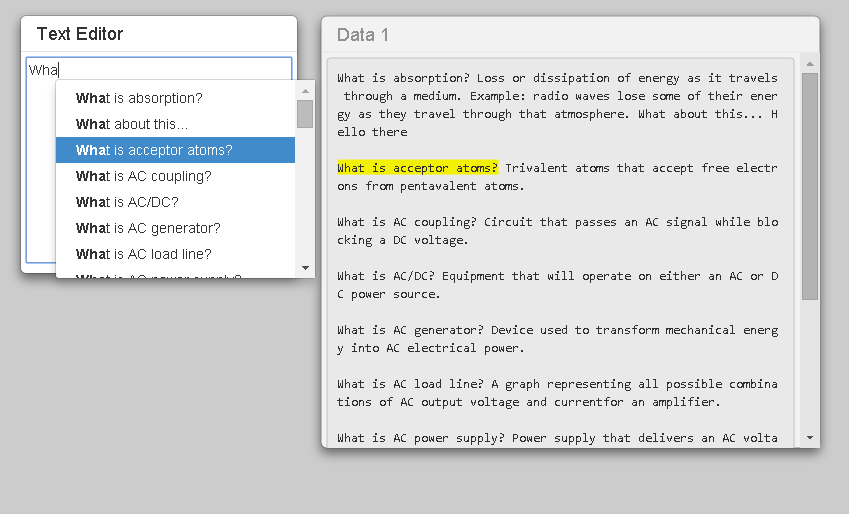
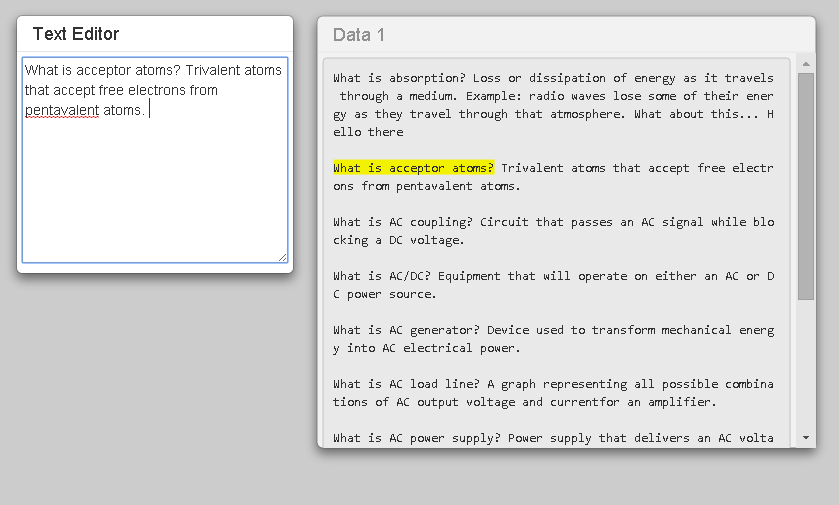
Included screen shots onto instructions page

diff --git a/instructions.html b/instructions.html
@@ -46,16 +46,15 @@
 
                         <p>Whenever <i>AutoComPaste</i> is active, typing three characters or more in the Text Input Box will bring up a dropdown list of possible sentences that are extracted from the contents of the open windows.</p>
                         
-                        <!-- Insert img here -->
+                        <img src="img/acp-instructions-1.PNG" style="height: 350px; width: auto;"> <br>
 
-                        <p>When this happens, pressing the <b>&#8679;/&#8681;</b> buttons will scroll through the list of suggestions. Press <b>Enter</b> to select a suggestion to be pasted into the Text Input Box.</p>
-
-                        <!-- Insert img here -->
+                        <p>When this happens, pressing the <b>&#8679;/&#8681;</b> buttons will scroll through the list of suggestions. Press <b>Enter</b> to select a suggestion to be pasted into the Text Input Box.</p> <br>
 
                         <p>After selecting a sentence, pressing the <b>&#8678;/&#8680;</b> buttons will allow you to delete or append the sentences before or after the selected sentence.</p>
 
-                        <!-- Insert img here -->
+                        <img src="img/acp-instructions-2.PNG" style="height: 350px; width: auto;"> <br>
 
+                        <br>
                         <p>If you wish to use the arrow keys to navigate your cursor through your text, press the <b>Esc</b> button to exit the <i>AutoComPaste</i> mode.</p>
 
                         <br>
@@ -66,17 +65,22 @@
 
                         <p>You will be given a series of tasks requiring you to try out one of the 2 different techniques of copying and pasting highlighted text onto a given text box at one time.</p>
 
-                        <p><u>Step 1</u>: Verify from the left panel which <b>method</b> (<i>AutoComPaste</i> or <i>Ctrl-C + Ctrl-V</i>) you are expected to use for that current task. </p> 
+                        <p><u><b>STEP 1</b></u>: Verify from the left panel which <b>method</b> (<i>AutoComPaste</i> or <i>Ctrl-C + Ctrl-V</i>) you are expected to use for the current task. </p> 
 
-                        <p><u>Step 2</u>: Locate the <b>highlighted section(s)</b> of text from the right panel.</p>
+                        <img src="img/task-instructions-1.PNG" style="height: 350px; width: auto;"> <br> <br>
+
+                        <p><u><b>STEP 2</b></u>: Locate the <b>highlighted section(s)</b> of text from the right panel.</p>
+
+                        <img src="img/task-instructions-2.PNG" style="height: 350px; width: auto;"> <br> <br>
                         
-                        <p><u>Step 3</u>: Copy-and-paste the highlighted text into the Text Input Box provided. (Do not type them in manually.)</p>
+                        <p><u><b>STEP 3</b></u>: Copy-and-paste the highlighted text into the Text Input Box provided.</p>
 
-                        <p><u>Step 4</u>: Once you’re satisfied with the text entered in the Text Input Box, hitting the <b>Enter</b> key will disable the <b>Next Task</b> button.</p>
+                        <p><u><b>STEP 4</b></u>: Once you’re satisfied with the text entered in the Text Input Box, clicking on the <b>Next Task</b> button will bring up the next task. You may take breaks at any time during the experiment by clicking on the <b>Pause</b> button to stop the timer.</p>
 
-                        <p><u>Step 5</u>: Click on the <b>Next Task</b> button whenever you're ready to proceed. You may take breaks at any time during the experiment.</p>
+                        <img src="img/task-instructions-3.PNG" style="height: 350px; width: auto;"> <br> <br>
                         
-                        <p>Once you've completed all the tasks, you'll be re-directed to answer a post-experiment questionnaire.</p>
+                        <p>Once you've completed all the tasks, you'll be re-directed to answer a post-experiment questionnaire. </p>
+                        <p>You may now proceed to try out some of the practice examples in the proceeding section.</p>
 
                         <br>
                     </div>
